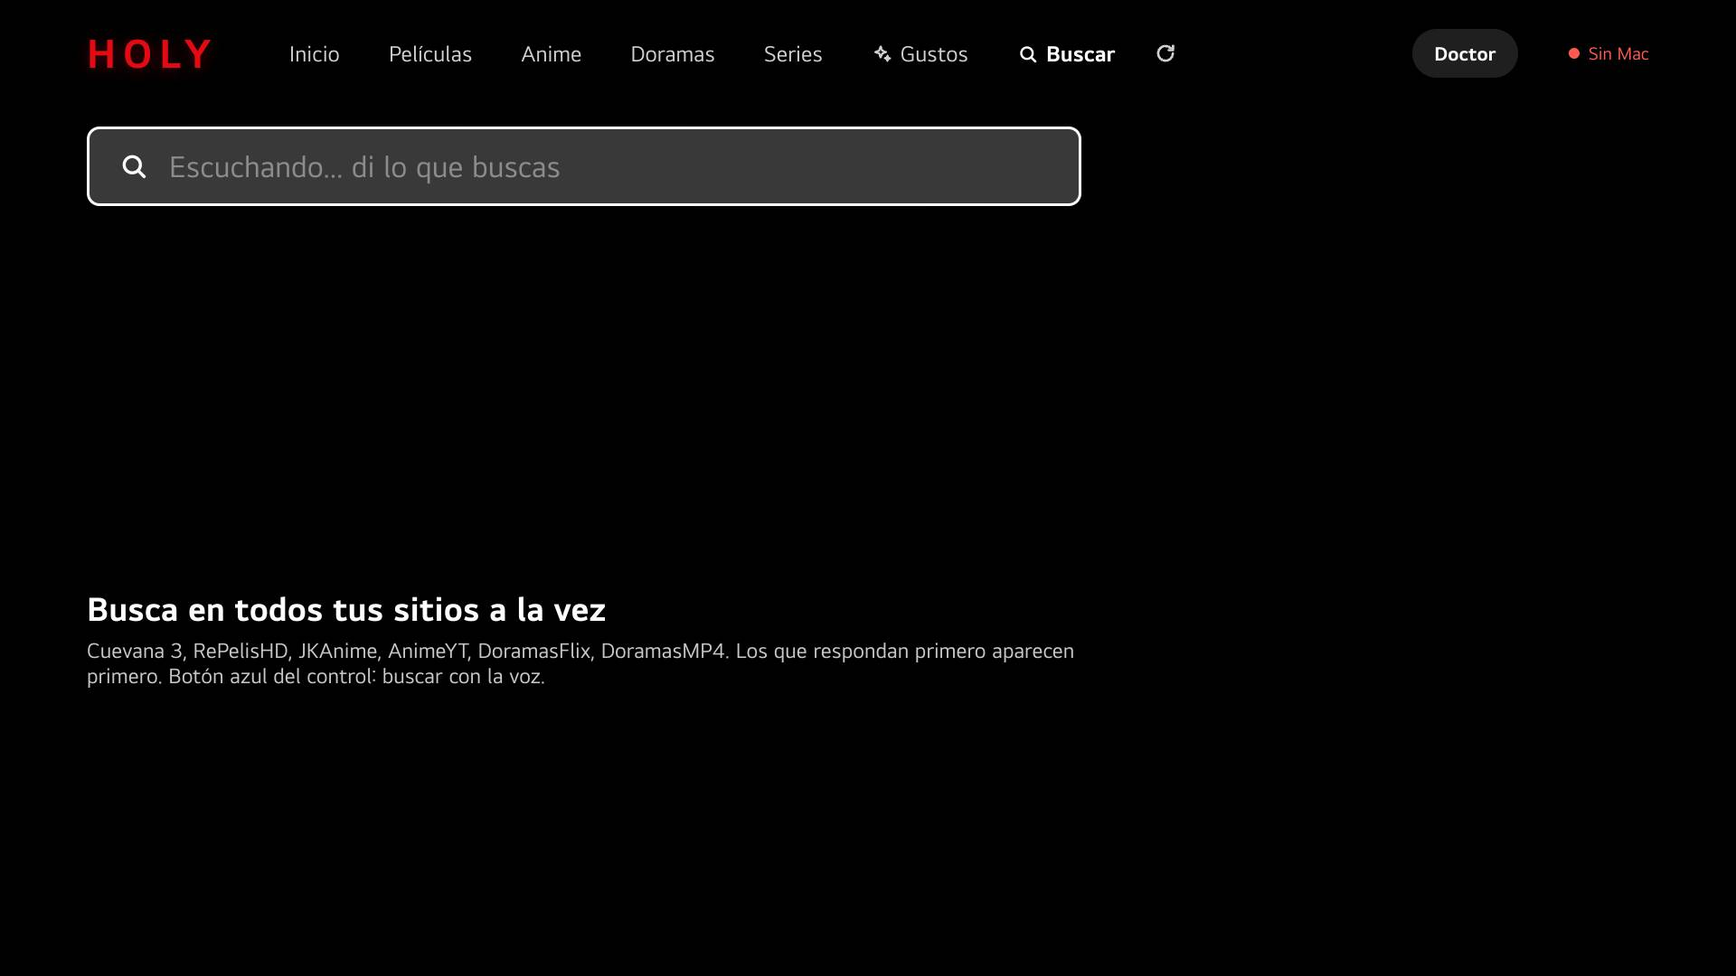
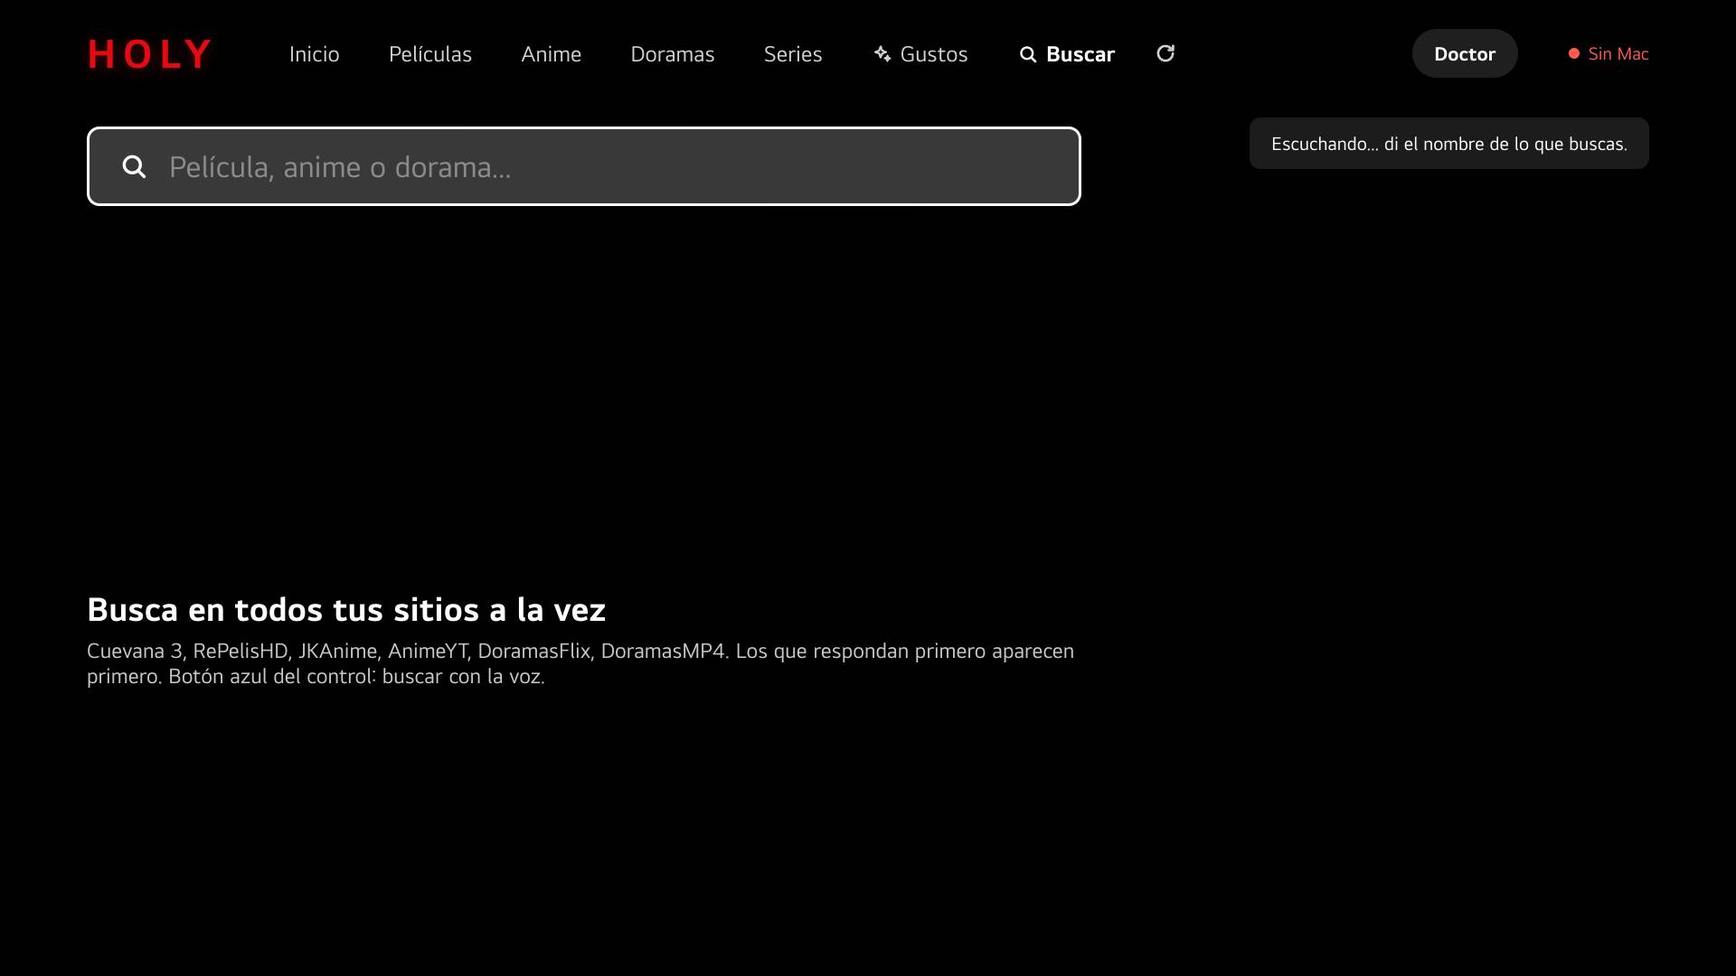
Holy 0.6.2: blue key without the keyboard, retries, audio-unstable message

Changed region(s): [[0.7188, 0.1222, 0.9688, 0.1833], [0.0938, 0.1528, 0.3125, 0.1833]]

diff --git a/src/App.svelte b/src/App.svelte
@@ -12,6 +12,30 @@
   let inNav = $state(false);
   let navIndex = $state(0);
   let connected = $state(false);
+  // Semáforo: verde = todo bien, naranja = hay algo que revisar, rojo = esta pantalla no alcanza al Mac.
+  let doctorReport = $state(null);
+  let macReachable = $state(true);
+  let doctorOpen = $state(false);
+  let doctorBusy = $state(false);
+  let doctorResult = $state(null);
+  const level = $derived(!apiBase || !macReachable ? 'red' : doctorReport?.level === 'green' && connected ? 'green' : 'orange');
+  const levelText = $derived({ red: 'Sin Mac', orange: 'Revisar · Doctor', green: 'Todo conectado' }[level]);
+  async function checkDoctor() {
+    if (!apiBase) return;
+    try { doctorReport = await getJSON(apiBase + '/holy-api/doctor', { timeout: 8000, retries: 0 }); macReachable = true; }
+    catch { macReachable = false; }
+  }
+  async function prescribe() {
+    if (doctorBusy || !apiBase) return;
+    doctorBusy = true; doctorResult = null;
+    try {
+      const result = await getJSON(apiBase + '/holy-api/doctor', { method: 'POST', headers: { 'Content-Type': 'text/plain' }, timeout: 30000, retries: 0 });
+      doctorResult = result; doctorReport = result.report; macReachable = true;
+    } catch { doctorResult = { done: [], failed: true }; macReachable = false; }
+    doctorBusy = false;
+    if (doctorResult?.restarting) setTimeout(checkDoctor, 8000);
+  }
+  function openDoctor() { doctorOpen = true; doctorResult = null; checkDoctor(); }
   let opening = $state(null);
   let notice = $state('');
   let navigationError = $state('');
@@ -212,31 +236,61 @@
     // Focusing the field opens the TV's on-screen keyboard.
     tick().then(() => searchInput?.focus());
   }
-  // Blue key: straight to «Buscar» and voice. With the browser's speech recognition the TV listens
-  // and searches what it hears; without it the field opens its on-screen keyboard (its microphone,
-  // or the remote's, dictates into the field). The text stays editable afterwards.
+  // Blue key: straight to «Buscar» and voice, without the on-screen keyboard (it would take the
+  // microphone: «already processing another request»). The TV listens and searches what it hears;
+  // pressing blue again cancels. The keyboard only opens when OK is pressed on the search bar.
+  // Without speech recognition the field opens for the keyboard's own microphone.
   let listening = $state(false);
   let recognizer = null;
-  function voiceSearch() {
+  let voiceRetry = 0;
+  let voiceWatchdog;
+  function stopListening() {
+    clearTimeout(voiceWatchdog);
+    const old = recognizer;
+    recognizer = null; listening = false;
+    if (!old) return;
+    old.onresult = old.onerror = old.onend = null;
+    try { old.abort(); } catch { /* Already over. */ }
+  }
+  function voiceSearch(retrying = false) {
     if (sheet || opening) return;
-    recognizer?.abort?.();
-    chooseSection('buscar');
+    episodesView = null; section = 'buscar'; rowIndex = 0; inNav = false; inSearch = true;
+    searchInput?.blur();
+    // A second press cancels at once: this TV's recogniser may never say it ended, so it is not waited for.
+    if (listening && !retrying) { stopListening(); notice = ''; return; }
+    // Whatever was left from before is closed first, and the new request waits a moment (the service answers «busy» otherwise).
+    const leftover = recognizer;
+    if (leftover) { stopListening(); setTimeout(() => voiceSearch(true), 700); return; }
     const Speech = window.SpeechRecognition || window.webkitSpeechRecognition;
-    if (!Speech) { notice = 'Di lo que buscas con el micrófono del teclado o el de tu control.'; return; }
+    if (!Speech) { focusSearch(); notice = 'Di lo que buscas con el micrófono del teclado o el de tu control.'; return; }
     try {
       const heard = new Speech();
       recognizer = heard;
       heard.lang = 'es-MX'; heard.interimResults = false; heard.maxAlternatives = 1;
-      listening = true; notice = 'Escuchando… di el nombre de lo que buscas.';
+      let answered = false;
       heard.onresult = event => {
         const text = String(event.results?.[0]?.[0]?.transcript || '').trim();
-        if (text) { query = text; notice = ''; search(); }
+        if (!text) return;
+        answered = true; voiceRetry = 0; query = text; notice = ''; search();
       };
-      heard.onerror = () => { notice = 'No se pudo usar la voz. Escribe con el teclado o con su micrófono.'; searchInput?.focus(); };
-      heard.onend = () => { listening = false; if (recognizer === heard) recognizer = null; tick().then(() => searchInput?.focus()); };
-      searchInput?.blur();
+      heard.onerror = event => {
+        const kind = String(event?.error || '');
+        // This TV's audio service often cuts a request off at once («aborted»): it is tried again by itself
+        // (the service needs a moment), and only after that the owner is told.
+        if (!answered && !['no-speech', 'not-allowed', 'service-not-allowed'].includes(kind) && voiceRetry < 2) {
+          voiceRetry++; answered = true; recognizer = null; listening = false; clearTimeout(voiceWatchdog);
+          setTimeout(() => { if (!listening && section === 'buscar') voiceSearch(true); }, 1800);
+          return;
+        }
+        recognizer = null; listening = false; clearTimeout(voiceWatchdog);
+        notice = kind === 'no-speech' ? 'No te escuché. Pulsa el botón azul para intentarlo otra vez.' : 'El procesador de audio es inestable. Vuelve a intentar.';
+      };
+      heard.onend = () => { if (recognizer === heard) { recognizer = null; listening = false; clearTimeout(voiceWatchdog); } };
+      listening = true; notice = 'Escuchando… di el nombre de lo que buscas.';
       heard.start();
-    } catch { listening = false; notice = 'No se pudo usar la voz. Escribe con el teclado o con su micrófono.'; searchInput?.focus(); }
+      // If the service never ends the request, give up after a while so the next press starts clean.
+      voiceWatchdog = setTimeout(() => { if (recognizer === heard) { stopListening(); notice = 'El procesador de audio es inestable. Vuelve a intentar.'; } }, 12000);
+    } catch { listening = false; recognizer = null; notice = 'El procesador de audio es inestable. Vuelve a intentar.'; }
   }
   function leaveSearch(direction) {
     inSearch = false; searchInput?.blur();
@@ -312,7 +366,7 @@
   function move(direction) {
     if (inNav) {
       if (direction === 'left') navIndex = Math.max(0, navIndex - 1);
-      else if (direction === 'right') navIndex = Math.min(SECTIONS.length, navIndex + 1);
+      else if (direction === 'right') navIndex = Math.min(SECTIONS.length + 1, navIndex + 1);
       else if (direction === 'down' && rows.length) inNav = false;
       return;
     }
@@ -334,9 +388,15 @@
   function remote(event) {
     const code = event.keyCode;
     if (navigationError) return;
-    if (code === 406) { event.preventDefault(); voiceSearch(); return; }
+    if (code === 406) { event.preventDefault(); voiceRetry = 0; voiceSearch(); return; }
     const direction = { 37: 'left', 38: 'up', 39: 'right', 40: 'down' }[code];
     // The rating sheet has the remote while open.
+    if (doctorOpen) {
+      event.preventDefault();
+      if (code === 13) { if (!doctorBusy) prescribe(); }
+      else if (code === 461 || code === 27) doctorOpen = false;
+      return;
+    }
     if (sheet) {
       event.preventDefault();
       const options = RATINGS.length + 1;
@@ -356,7 +416,7 @@
     if (code === 13) {
       event.preventDefault();
       if (opening) return;
-      if (inNav) { if (navIndex === SECTIONS.length) refresh(); else chooseSection(SECTIONS[navIndex].id); }
+      if (inNav) { if (navIndex === SECTIONS.length + 1) openDoctor(); else if (navIndex === SECTIONS.length) refresh(); else chooseSection(SECTIONS[navIndex].id); }
       else if (inSearch) focusSearch();
       else choose(focused);
     } else if (code === 403) { event.preventDefault(); if (section === 'gustos' && !inNav) rate(focused, -1); else forget(focused); }
@@ -397,7 +457,8 @@
       if (cached?.rows) data = cached;
       if (!apiBase) apiBase = localStorage.getItem('holy-api') || '';
     } catch { /* No cache yet. */ }
-    load();
+    load(); checkDoctor();
+    const doctorTimer = setInterval(checkDoctor, 20000);
     const update = event => {
       const detail = event.detail || {};
       lastHeartbeat = Date.now();
@@ -414,7 +475,7 @@
     const heartbeat = setInterval(() => { if (connected && Date.now() - lastHeartbeat > 6500) connected = false; }, 2000);
     window.addEventListener('lg-lab-status', update);
     window.__lumaReady = true;
-    return () => { window.removeEventListener('lg-lab-status', update); clearInterval(heartbeat); clearTimeout(previewTimer); clearTimeout(openingTimer); };
+    return () => { window.removeEventListener('lg-lab-status', update); clearInterval(heartbeat); clearInterval(doctorTimer); clearTimeout(previewTimer); clearTimeout(openingTimer); };
   });
 </script>
 
@@ -437,7 +498,8 @@
       {/each}
       <button class="icon" class:focus={inNav && navIndex === SECTIONS.length} aria-label="Buscar estrenos ahora" onclick={refresh}><Icon name="reload" size={26} stroke={2.4} /></button>
     </nav>
-    <span class="status" class:offline={!connected}>{connected ? 'Conectado al Mac' : 'Sin Mac'}</span>
+    <button class="doctor" class:focus={inNav && navIndex === SECTIONS.length + 1} aria-label="Doctor" onclick={openDoctor}>Doctor</button>
+    <span class="status {level}" role="status">{levelText}</span>
   </header>
 
   {#if section === 'buscar' && !episodesView}
@@ -569,7 +631,7 @@
     </div>
   </main>
 
-  {#if notice && rows.length}<div class="toast" role="status">{notice}</div>{/if}
+  {#if notice && (rows.length || section === 'buscar')}<div class="toast" role="status">{notice}</div>{/if}
 </div>
 
 {#if opening}
@@ -580,6 +642,36 @@
       <h1>{opening.title}</h1>
       {#if opening.subtitle}<p>{opening.subtitle}</p>{/if}
       <div class="spin"><span class="ring"></span>{opening.resume ? 'Volviendo a donde te quedaste…' : 'Abriendo…'}</div>
+    </div>
+  </div>
+{/if}
+
+{#if doctorOpen}
+  <div class="sheet-scrim" role="dialog" aria-label="Doctor">
+    <div class="sheet doctor-sheet">
+      <p class="sheet-kicker">Doctor</p>
+      <h2 class="doctor-title {level}">{levelText}</h2>
+      {#if level === 'red'}
+        <p class="sheet-sub">Esta pantalla no alcanza al Mac. Comprueba que el Mac está encendido, en el mismo Wi-Fi, y que Holy corre en él (se inicia sola al encender el Mac si el arranque automático está activado).</p>
+      {:else}
+        <ul class="doctor-list">
+          {#each doctorReport?.checks || [] as item}
+            <li class={item.level}><span class="dot"></span><b>{item.label}</b><span>{item.detail}</span>{#if item.level !== 'ok'}<em>{item.fix ? '→ el Doctor lo arregla' : item.hint}</em>{/if}</li>
+          {/each}
+        </ul>
+        {#if doctorResult}
+          <ul class="doctor-list result">
+            {#each doctorResult.done || [] as step}<li class={step.ok ? 'ok' : 'warn'}><span class="dot"></span>{step.text}</li>{/each}
+            {#if doctorResult.failed}<li class="warn"><span class="dot"></span>No se pudo hablar con el Mac.</li>{/if}
+            {#if !doctorResult.failed && !(doctorResult.done || []).length}<li class="ok"><span class="dot"></span>No había nada que arreglar automáticamente.</li>{/if}
+          </ul>
+        {/if}
+      {/if}
+      <div class="sheet-options">
+        {#if level !== 'red'}<button class="sheet-option focus" disabled={doctorBusy} onclick={prescribe}>{doctorBusy ? 'Recetando…' : 'Recetar arreglos'}</button>{/if}
+        <button class="sheet-option plain" onclick={() => (doctorOpen = false)}>Cerrar</button>
+      </div>
+      <p class="sheet-note">OK recibe la receta · Atrás cierra. El Doctor nunca abre ni cambia nada en la TV.</p>
     </div>
   </div>
 {/if}
@@ -632,7 +724,20 @@
   nav button.focus,nav button:hover{background:#fff;color:#000;transform:scale(1.08)}
   .status{margin-left:auto;font-size:20px;color:#9fe3a8;display:flex;align-items:center;gap:10px}
   .status::before{content:'';width:12px;height:12px;border-radius:50%;background:currentColor}
-  .status.offline{color:#ffb020}
+  .status.orange{color:#ffb020}
+  .status.red{color:#ff5a52}
+  nav button.doctor,.top>button.doctor{margin-left:auto;height:54px;padding:0 24px;border:0;border-radius:27px;background:rgba(255,255,255,.12);font-size:22px;font-weight:700;color:#fff}
+  .top>button.doctor+.status{margin-left:0}
+  .top>button.doctor.focus{background:#fff;color:#000;transform:scale(1.06)}
+  .doctor-sheet .doctor-title{font-size:40px}
+  .doctor-title.green{color:#9fe3a8}.doctor-title.orange{color:#ffb020}.doctor-title.red{color:#ff5a52}
+  .doctor-list{list-style:none;margin:22px 0 0;padding:0;display:grid;gap:8px;font-size:22px}
+  .doctor-list li{display:flex;align-items:baseline;gap:14px}
+  .doctor-list li b{min-width:330px}
+  .doctor-list li em{margin-left:auto;font-style:normal;color:#ffb020;font-size:19px;max-width:420px;text-align:right}
+  .doctor-list .dot{width:14px;height:14px;border-radius:50%;flex:none;align-self:center;background:#9fe3a8}
+  .doctor-list li.warn .dot{background:#ffb020}
+  .doctor-list.result{margin-top:18px;padding-top:16px;border-top:1px solid rgba(255,255,255,.14)}
 
   .preview{position:absolute;left:96px;top:150px;width:900px;z-index:2}
   .preview-text{animation:rise .45s var(--ease)}

diff --git a/docs/SOUL.md b/docs/SOUL.md
@@ -4,7 +4,7 @@
 
 **Cómo mantenerlo (obligatorio):** al terminar cualquier ajuste, actualizar aquí (1) la tabla de estado, (2) «Pendiente», (3) versión/fecha, (4) una línea en «Últimos cambios» (máx. 8). Detalles largos van a `docs/HOLY.md`. Sin secretos. Separar siempre lo probado en TV, lo probado solo en Mac/escritorio y lo no probado.
 
-Actualizado: 2026-10-24 (00:15) · Código: **Holy 0.6.0** (`package.json`, `com.lgapp.holy`) · Instalado en TV: **0.6.0** (botón azul probado en la TV; falta hablarle de verdad) · **Validado en TV** (Atrás 6/6 con la tecla enviada desde el Mac y **confirmado por el usuario con el control físico**; One Piece 9/9 por JKAnime). `npm run holy` (supervisor) corre en la terminal.
+Actualizado: 2026-10-24 (00:15) · Código: **Holy 0.6.2** (`package.json`, `com.lgapp.holy`) · Instalado en TV: **0.6.2** (botón azul sin teclado; la voz depende del audio de la TV, ver Pendiente) · **Validado en TV** (Atrás 6/6 con la tecla enviada desde el Mac y **confirmado por el usuario con el control físico**; One Piece 9/9 por JKAnime). `npm run holy` (supervisor) corre en la terminal.
 
 ## Qué es
 
@@ -37,7 +37,7 @@ App de películas, anime, doramas y series para la LG 75UR8750PSA (webOS 25, Chr
 ## Pendiente (prioridad)
 
 0. **Doctor/arranque:** instalar el IPK 0.6.0 en la TV, ejecutar `npm run holy:autostart -- on` y reiniciar el Mac para comprobar que Holy vuelve sola (puede pedir permiso de «red local» a node). El LaunchAgent apunta a esta carpeta de trabajo (`.claude/worktrees/holy`): si se borra, hay que reinstalarlo desde donde viva Holy.
-00. **Voz con el control físico**: la TV tiene `webkitSpeechRecognition` y escucha sin error, pero la prueba no pudo hablar; confirmar que entiende (si no, el campo queda enfocado para dictar con el teclado). «Inglés» solo saldrá si un sitio lo dice; Cuevana «Subtitulado» suele ser audio original con subtítulos en español.
+00. **Voz**: el servicio de audio de la TV (`webkitSpeechRecognition`) corta la petición a los ~250 ms con `aborted` desde el Mac (probado con y sin campo enfocado, continuo, tras reposo); el usuario dice que tras reintentar sí le deja hablar. Holy reintenta solo 2 veces y luego dice «El procesador de audio es inestable. Vuelve a intentar.»; el botón azul de nuevo cancela o reinicia. Falta confirmar con voz real si entiende. «Inglés» solo saldrá si un sitio lo dice; Cuevana «Subtitulado» suele ser audio original con subtítulos en español.
 0. Final de un título: probar con el control físico y viendo hasta el final de verdad (la prueba saltó a los últimos segundos). El reproductor de JKAnime muestra a veces su propio «¿Deseas continuar donde te quedaste?»; no estorbó, pero queda encima.
 1. Atrás con el control físico en los otros casos (Mac reconectado, Mac desconectado, salir de Holy desde Inicio con dos pulsaciones): solo se probaron con la tecla enviada desde el Mac.
 2. ok.ru tarda 10–20 s en avanzar cuando empieza en un segundo guardado (suyo o de Holy): no es fallo, pero la cortina ya se quitó; valorar mantenerla hasta que avance.
@@ -93,6 +93,7 @@ Entorno: TV `192.168.1.134`, Mac `192.168.1.148` (cambian; `config.mjs` toma la 
 
 ## Últimos cambios
 
+- 2026-10-24 01:10 — **Holy 0.6.2: botón azul sin teclado y con reintento.** Bug del usuario: al pulsar azul salía el teclado (ocupaba el micrófono) y al usar el micrófono decía «ya hay otra petición»; una petición quedaba en falso. Ahora azul no enfoca el campo (OK en la barra abre el teclado), cancela la petición anterior al instante y espera 0,7 s antes de otra, vigila 12 s, reintenta 2 veces los cortes y avisa «El procesador de audio es inestable. Vuelve a intentar.» (visible también sin resultados). `npm test` pasa; TV: azul → «Buscar» sin teclado, 3 intentos y el aviso (`voice-validation.json`). La interfaz se sirve desde el Mac: se ve al recargar el inicio.
 - 2026-10-24 00:30 — **Holy 0.6.0 instalada en la TV; botón azul probado** (`voice-validation.json`): la TV expone `webkitSpeechRecognition`; la tecla 406 lleva a «Buscar», el campo dice «Escuchando…» y a los 9 s termina sin error. No se pudo hablar desde el Mac. `npm run holy` reiniciado (otra sesión lo había relanzado; se paró y se volvió a lanzar desde el terminal).
 - 2026-10-24 — **Doctor, semáforo y arranque automático.** Causa del fallo del día: tras reiniciar el Mac nadie volvió a lanzar `npm run holy` (solo se lanzó el laboratorio de Luma, que conecta con otra app; además el Mac pasó de .148 a .102). Nuevo: semáforo verde/naranja/rojo, botón Doctor con «Recetar arreglos», `holy:autostart` (LaunchAgent `com.lgapp.holy.mac`, **sin instalar: lo corre el usuario**), el vigilante espera y toma el relevo si ya hay otro Holy (código 2) y marca `HOLY_SUPERVISED`. Probado solo en Mac. Falta: instalar IPK, correr `npm run holy:autostart -- on` y reiniciar el Mac para comprobar el arranque.
 - 2026-10-24 00:15 — **Holy 0.6.0: idioma en cada título y botón azul para buscar con la voz.** Etiqueta de idioma por título (vista previa y esquina de la tarjeta) con lo que dice el sitio; copias en distinto idioma/sitio se muestran por separado; vacío si no se sabe. Botón azul → «Buscar» + voz (o teclado con micrófono). `npm test` (13 + 20); navegador del Mac: etiquetas SUB/LAT, voz simulada «one piece» → Mejores resultados, y alternativa de teclado. Cuevana: 197 títulos con idioma real (Latino 47, Subtitulado 63, Castellano 47, mezclas 40). **TV sin tocar** (se estaba usando); IPK 0.6.0 listo.
@@ -100,4 +101,3 @@ Entorno: TV `192.168.1.134`, Mac `192.168.1.148` (cambian; `config.mjs` toma la 
 - 2026-10-23 21:40 — **Holy 0.4.2: One Piece aparece al buscar, con sus episodios.** Causa: la búsqueda ponía las filas por orden de llegada; arriba salían «En tu catálogo» y RePelisHD (One Piece: Heroines, LEGO ONE PIECE) y la serie de JKAnime quedaba 4.ª–5.ª fila. Además, Cuevana tiene One Piece como «serie» (hasta el 642): el usuario abrió el 15x642 a las 20:06, sus 5 servidores no arrancaron en ~2 min y no se probó JKAnime (solo aplicaba a «anime»). Ahora: «Mejores resultados» arriba (JKAnime One Piece primero) + fila con sus episodios más nuevos; serie de Cuevana con género «Anime» → mismo episodio en JKAnime (dirección directa `/one-piece/642/`, 4,5 s); «2x5» ya no se confunde con el episodio 5 de otra serie; fila «Anime en emisión» (horario de JKAnime); lista de episodios de JKAnime 5,6 → 4 s (sesión reutilizada); búsqueda local «onepiece». `npm test` (13 + 17). **TV (21:50, con permiso del usuario)**: «one piece» → «Mejores resultados» con One Piece de JKAnime primero y «One Piece · Episodios 1131–1180» debajo (sitios 0,1–7,9 s); abrir la serie → 24 bloques, el 1180 reproduce en 13,4 s y avanza; Cuevana «One Piece» 15x642 → JKAnime, 13,4 s, avanza (`search-validation.json`). Instalada 0.4.2 y `npm run holy` reiniciado; historial del usuario intacto.
 - 2026-10-23 21:10 — **Holy 0.4.1: Atrás siempre vuelve al inicio y anime primero en JKAnime.** Causa de la pantalla negra: webOS hacía «historia atrás» hasta la página empaquetada de la app y el reproductor quedaba colgado; además, tras una reconexión del Mac, el manejador viejo se tragaba la tecla, y sin Mac el iframe del reproductor no podía mover la página de arriba. Ahora Holy recibe Atrás (`disableBackHistoryAPI`), cada conexión sella la página y, sin Mac, la página va sola al inicio. **TV 6/6** (`back-validation.json`, `back-home-validation.json`): recién abierta, desde el inicio, Mac reconectado, Mac desconectado, salir a Ajustes y volver, Atrás en Inicio avisa. Anime: el mismo episodio en JKAnime primero; **TV One Piece 1180, 1179, 1150, 1100, 1000, 800, 500, 100 y 1: 9/9 en 9,2–12 s**, AnimeYT «Kusuriya no Hitorigoto» → JKAnime 13,6 s (`episodes-validation.json`). Coincidencia de títulos más estricta para arcos («One Piece: Arco de Elbaph» ≠ otra serie). `npm test` (13 + 16) pasa. El usuario confirmó Atrás con el control físico viendo una película (inicio de Holy).
 - 2026-10-23 20:10 — **Holy 0.4.0 validada en la TV** (el usuario la dejó libre). `validate-holy-tv`: 9/9 muestras de los 7 sitios arrancan solas (6–24 s), app sin cierres, Atrás y reanudar; ok.ru (DoramasMP4, Asia Live Action) empezó en su propio segundo guardado y tardó en avanzar: sostenida 40 s pasó de 10 a 50 s (`okru-hold-validation.json`). **«Hope» de DoramasFlix (sin servidores) → Cuevana 3 en la TV**, 16 s, avanza (`fallback-validation.json`). «¿Qué te pareció?», chips (género ✓/✗, productora ✓), botón verde «Me encanta» y panel correctos (`taste-validation.json`). Búsqueda en los 7 sitios (0,1–4,4 s) → One Piece ep. 1180 en 10 s (`search-validation.json`). «Identification» desapareció del historial del usuario a las 19:02 desde la TV (botón rojo de una pulsación): ahora quitar de «Continuar viendo» pide dos pulsaciones. Perfil real intacto (4 votos), perfil de prueba borrado.
-- 2026-10-23 19:40 — **Holy 0.4.0: otro sitio si no se reproduce, 709 títulos, filas por género, gustos por productora y país, calificar y preguntar.** Diagnóstico del fallo de «Hope» (15:50): la copia de DoramasFlix no tiene servidores → Holy se rendía y volvía al inicio. Ahora busca el mismo título/episodio en los otros sitios (`catalog.elsewhere`, `HolyBridge.findElsewhere/nextSite`), también si fallan todos los servidores; probado en Mac: Hope de DoramasFlix → Cuevana, reproduce. Imágenes de AnimeYT rechazadas por la caché (403 en la TV a las 19:04) → hosts añadidos + prueba. País normalizado (Thailand→Tailandia…). La guardia de caídas funcionó en la vida real (la TV se apagó y Holy siguió). `npm test` (13 + 15), `validate-holy-sites` 7/7 con 0 imágenes rechazadas, Mac 9/9. **TV: instalada 0.4.0, sin validar** (la TV estaba encendida; no se interrumpió).
